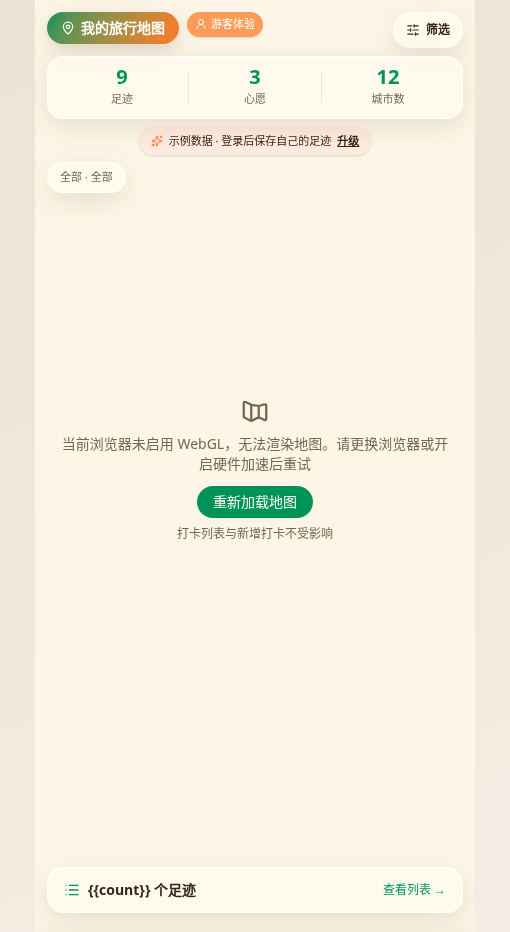
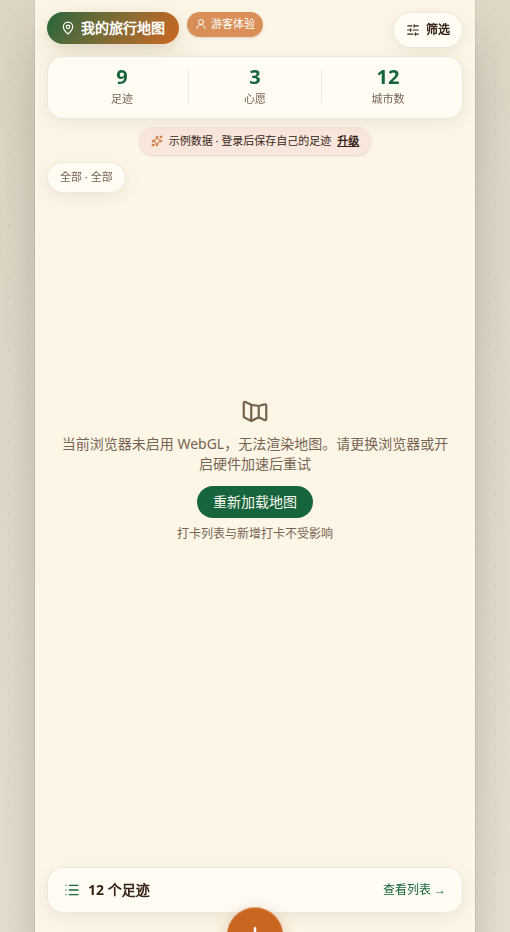
fix: repair donut chart, dedupe 4th stat, native confirm -> alert-dialog, fill i18n leaks

diff --git a/frontend/src/pages/CheckinDetail.tsx b/frontend/src/pages/CheckinDetail.tsx
@@ -1,3 +1,4 @@
+import { useState } from 'react'
 import { useNavigate, useParams } from 'react-router-dom'
 import { useAuth } from '@/lib/AuthContext'
 import { useCheckin, useDeleteCheckin } from '@/lib/hooks'
@@ -8,6 +9,17 @@ import { Button } from '@/components/ui/button'
 import { Badge } from '@/components/ui/badge'
 import { Card, CardContent } from '@/components/ui/card'
 import { Separator } from '@/components/ui/separator'
+import {
+  AlertDialog,
+  AlertDialogTrigger,
+  AlertDialogContent,
+  AlertDialogHeader,
+  AlertDialogFooter,
+  AlertDialogTitle,
+  AlertDialogDescription,
+  AlertDialogCancel,
+  AlertDialogAction,
+} from '@/components/ui/alert-dialog'
 import { Star, MapPin, Pencil, Trash2, Heart, CheckCircle2, Share2, CalendarDays } from 'lucide-react'
 import { toast } from 'sonner'
 import { useTranslation } from 'react-i18next'
@@ -19,6 +31,7 @@ export default function CheckinDetail() {
   const { user, guest } = useAuth()
   const { data: checkin, isLoading } = useCheckin(id ? Number(id) : null)
   const delMut = useDeleteCheckin()
+  const [delOpen, setDelOpen] = useState(false)
 
   if (isLoading) {
     return (
@@ -45,7 +58,6 @@ export default function CheckinDetail() {
   const isOwner = guest || (user?.uid && checkin.user_id === user.uid)
 
   const onDelete = async () => {
-    if (!confirm(t('确定删除这条打卡记录吗？'))) return
     try {
       await delMut.mutateAsync(checkin.id)
       toast.success(t('已删除'))
@@ -183,14 +195,32 @@ export default function CheckinDetail() {
             >
               <Pencil className="h-4 w-4" /> {t('编辑')}
             </Button>
-            <Button
-              variant="ghost"
-              className="h-11 flex-1 gap-1 rounded-full"
-              style={{ color: 'var(--destructive)' }}
-              onClick={onDelete}
-            >
-              <Trash2 className="h-4 w-4" /> {t('删除')}
-            </Button>
+            <AlertDialog open={delOpen} onOpenChange={setDelOpen}>
+              <AlertDialogTrigger asChild>
+                <Button
+                  variant="ghost"
+                  className="h-11 flex-1 gap-1 rounded-full"
+                  style={{ color: 'var(--destructive)' }}
+                >
+                  <Trash2 className="h-4 w-4" /> {t('删除')}
+                </Button>
+              </AlertDialogTrigger>
+              <AlertDialogContent className="card-paper" style={{ background: 'var(--card)', border: '1px solid var(--border)' }}>
+                <AlertDialogHeader>
+                  <AlertDialogTitle>{t('删除打卡')}</AlertDialogTitle>
+                  <AlertDialogDescription>{t('确定删除这条打卡记录吗？')}</AlertDialogDescription>
+                </AlertDialogHeader>
+                <AlertDialogFooter>
+                  <AlertDialogCancel>{t('取消')}</AlertDialogCancel>
+                  <AlertDialogAction
+                    onClick={onDelete}
+                    style={{ background: 'var(--destructive)', color: 'white' }}
+                  >
+                    {t('删除')}
+                  </AlertDialogAction>
+                </AlertDialogFooter>
+              </AlertDialogContent>
+            </AlertDialog>
           </div>
         )}
       </main>

diff --git a/frontend/src/pages/Stats.tsx b/frontend/src/pages/Stats.tsx
@@ -8,7 +8,7 @@ import TravelIllustration from '@/components/TravelIllustration'
 import CountUp from '@/components/CountUp'
 import { FadeIn } from '@/components/MotionPrimitives'
 import { useTranslation } from 'react-i18next'
-import { MapPin, Globe2, Sparkles, BarChart3, CalendarRange } from 'lucide-react'
+import { MapPin, Globe2, BarChart3, CalendarRange } from 'lucide-react'
 
 /** 两点间距离（km） */
 function haversineKm(a: { lng: number; lat: number }, b: { lng: number; lat: number }) {
@@ -33,8 +33,6 @@ function provinceOf(address?: string | null): string | null {
   for (const p of PROVINCES) if (address.startsWith(p)) return p
   return null
 }
-
-const ease = [0.25, 0.46, 0.45, 0.94] as const
 
 export default function Stats() {
   const { t } = useTranslation()
@@ -95,6 +93,9 @@ export default function Stats() {
     return { place: best.place_name, year: y, month: Number(m), km: Math.round(bestD) }
   }, [visited])
 
+  const fourthStat = furthest
+    ? { n: furthest.km, label: t('公里外的远方') }
+    : { n: byCategory.filter((c) => c.count > 0).length, label: t('类足迹') }
   const heroSentence = furthest
     ? t('这一年走得最远的一次，是 {{year}} 年 {{month}} 月的 {{place}}。', { year: furthest.year, month: furthest.month, place: furthest.place })
     : t('你已在 {{cities}} 座城市，留下 {{visited}} 段旅程。', { cities: s.cities, visited: s.visited })
@@ -160,7 +161,7 @@ export default function Stats() {
               { n: s.visited, label: t('段足迹') },
               { n: s.cities, label: t('座城市') },
               { n: litProvinces.size, label: t('个省份') },
-              { n: furthest ? furthest.km : s.visited, label: furthest ? t('公里远方') : t('段足迹') },
+              { ...fourthStat },
             ].map((stat, i) => (
               <div key={i} className="flex-1 text-center">
                 <div className="font-display text-4xl font-black leading-none tabular-nums" style={{ color: 'var(--primary)' }}>

diff --git a/docs/design/default.style-guide.html b/docs/design/default.style-guide.html
@@ -28,8 +28,8 @@
       --popover-foreground: oklch(0.28 0.035 60);
 
       /* === 主色调 === */
-      --primary: oklch(0.58 0.145 158);
-      --primary-foreground: oklch(0.99 0.008 90);
+      --primary: oklch(0.45 0.10 155);
+      --primary-foreground: oklch(0.98 0.01 90);
 
       /* === 次要色 === */
       --secondary: oklch(0.955 0.022 88);
@@ -40,7 +40,7 @@
       --muted-foreground: oklch(0.52 0.035 65);
 
       /* === 强调色 === */
-      --accent: oklch(0.72 0.185 48);
+      --accent: oklch(0.62 0.15 50);
       --accent-foreground: oklch(0.99 0.008 90);
 
       /* === 危险/错误色 === */
@@ -88,7 +88,7 @@
 
       /* === 其他变量 === */
       --font-family: "Inter Variable", -apple-system, BlinkMacSystemFont, "Segoe UI", "Helvetica Neue", Arial, sans-serif;
-      --font-display: "Playfair Display", "Songti SC", "STSong", "Noto Serif SC", Georgia, "Times New Roman", serif;
+      --font-display: "Noto Serif SC", "Songti SC", "STSong", "Playfair Display", Georgia, "Times New Roman", serif;
       --font-size-display: 3.5rem;
       --font-size-headline: 2rem;
       --font-size-title: 1.5rem;
@@ -124,12 +124,12 @@
       --ease-in: cubic-bezier(0.4, 0, 1, 1);
       --ease-out: cubic-bezier(0, 0, 0.2, 1);
       --ease-in-out: cubic-bezier(0.4, 0, 0.2, 1);
-      --scenery: oklch(0.68 0.16 155);
-      --food: oklch(0.76 0.17 52);
-      --culture: oklch(0.64 0.18 305);
-      --city: oklch(0.66 0.16 240);
-      --family: oklch(0.70 0.18 15);
-      --outdoor: oklch(0.68 0.15 200);
+      --scenery: oklch(0.60 0.08 155);
+      --food: oklch(0.68 0.10 60);
+      --culture: oklch(0.58 0.10 305);
+      --city: oklch(0.58 0.08 240);
+      --family: oklch(0.60 0.10 15);
+      --outdoor: oklch(0.60 0.08 200);
       --ease-bounce: cubic-bezier(0.34, 1.56, 0.64, 1);
 
     }

diff --git a/docs/design/index.css b/docs/design/index.css
@@ -61,7 +61,7 @@
 :root {
   --radius: 1rem;
   --font-family: "Inter Variable", -apple-system, BlinkMacSystemFont, "Segoe UI", "Helvetica Neue", Arial, sans-serif;
-  --font-display: "Playfair Display", "Songti SC", "STSong", "Noto Serif SC", Georgia, "Times New Roman", serif;
+  --font-display: "Noto Serif SC", "Songti SC", "STSong", "Playfair Display", Georgia, "Times New Roman", serif;
   --font-size-display: 3.5rem;
   --font-size-headline: 2rem;
   --font-size-title: 1.5rem;
@@ -103,13 +103,13 @@
   --card-foreground: oklch(0.28 0.035 60);
   --popover: oklch(0.995 0.008 90);
   --popover-foreground: oklch(0.28 0.035 60);
-  --primary: oklch(0.58 0.145 158);
-  --primary-foreground: oklch(0.99 0.008 90);
+  --primary: oklch(0.45 0.10 155);
+  --primary-foreground: oklch(0.98 0.01 90);
   --secondary: oklch(0.955 0.022 88);
   --secondary-foreground: oklch(0.28 0.035 60);
   --muted: oklch(0.945 0.02 88);
   --muted-foreground: oklch(0.52 0.035 65);
-  --accent: oklch(0.72 0.185 48);
+  --accent: oklch(0.62 0.15 50);
   --accent-foreground: oklch(0.99 0.008 90);
   --destructive: oklch(0.60 0.22 27);
   --border: oklch(0.915 0.022 85);
@@ -125,12 +125,12 @@
   --theme-green: oklch(0.62 0.16 158);
   --theme-gold: oklch(0.78 0.17 65);
   --theme-blue: oklch(0.62 0.17 245);
-  --scenery: oklch(0.68 0.16 155);
-  --food: oklch(0.76 0.17 52);
-  --culture: oklch(0.64 0.18 305);
-  --city: oklch(0.66 0.16 240);
-  --family: oklch(0.70 0.18 15);
-  --outdoor: oklch(0.68 0.15 200);
+  --scenery: oklch(0.60 0.08 155);
+  --food: oklch(0.68 0.10 60);
+  --culture: oklch(0.58 0.10 305);
+  --city: oklch(0.58 0.08 240);
+  --family: oklch(0.60 0.10 15);
+  --outdoor: oklch(0.60 0.08 200);
   --chart-1: var(--scenery);
   --chart-2: var(--food);
   --chart-3: var(--culture);

diff --git a/frontend/src/pages/Index.tsx b/frontend/src/pages/Index.tsx
@@ -8,7 +8,7 @@ import CheckinCard from '@/components/CheckinCard'
 import EmptyState from '@/components/EmptyState'
 import TravelIllustration from '@/components/TravelIllustration'
 import BottomSheet from '@/components/BottomSheet'
-import { MapPin, Plus, UserRound, List, SlidersHorizontal, X } from 'lucide-react'
+import { Plus, UserRound, List, SlidersHorizontal, X } from 'lucide-react'
 import { Button } from '@/components/ui/button'
 import { useTranslation } from 'react-i18next'
 
@@ -126,7 +126,7 @@ export default function Index() {
 
         <BottomSheet open={listOpen} onClose={() => setListOpen(false)} title="我的足迹">
           {isLoading ? (
-            <p className="py-10 text-center text-sm" style={{ color: 'var(--muted-foreground)' }}>加载中…</p>
+            <p className="py-10 text-center text-sm" style={{ color: 'var(--muted-foreground)' }}>{t('加载中…')}</p>
           ) : filtered.length === 0 ? (
             <EmptyState
               illustration={<TravelIllustration scene="empty" className="h-24 w-24" />}

diff --git a/frontend/src/pages/Me.tsx b/frontend/src/pages/Me.tsx
@@ -271,7 +271,7 @@ export default function Me() {
             <SettingRow
               icon={Languages}
               title={t('语言')}
-              desc={lang === 'zh' ? 'Switch to English' : '切换到中文'}
+              desc={lang === 'zh' ? 'Switch to English' : t('切换到中文')}
               onClick={() => setLanguage(lang === 'zh' ? 'en' : 'zh')}
             />
             {!guest && (

diff --git a/frontend/src/components/TravelMap.tsx b/frontend/src/components/TravelMap.tsx
@@ -2,7 +2,6 @@ import { useCallback, useEffect, useRef, useState } from 'react'
 import { useNavigate } from 'react-router-dom'
 import { loadTMapGL, createMap, LBSError } from '@/lib/tencent-lbs'
 import type { Checkin } from '@/lib/types'
-import { categoryMeta } from '@/lib/categories'
 import { useTranslation } from 'react-i18next'
 
 /** 生成带分类配色的地图大头针（SVG data URI） */

diff --git a/frontend/src/lib/locales/en.ts b/frontend/src/lib/locales/en.ts
@@ -277,6 +277,11 @@ const en = {
   '正在登录…': 'Signing in…',
   '登录成功后将自动跳转': 'You will be redirected after signing in',
   '登录失败，请重试': 'Sign-in failed, please retry',
+
+  // ===== misc / leaks =====
+  '切换到中文': 'Switch to Chinese',
+  '类足迹': 'Categories',
+  '删除打卡': 'Delete check-in',
 }
 
 export default en

diff --git a/frontend/src/pages/SharePage.tsx b/frontend/src/pages/SharePage.tsx
@@ -47,7 +47,7 @@ export default function SharePage() {
 
         {isLoading ? (
           <p className="py-16 text-center text-sm" style={{ color: 'var(--muted-foreground)' }}>
-            加载中…
+            {t('加载中…')}
           </p>
         ) : checkins.length === 0 ? (
           <EmptyState

diff --git a/frontend/src/pages/Timeline.tsx b/frontend/src/pages/Timeline.tsx
@@ -117,6 +117,7 @@ function TimelineItem({ item, index }: { item: Checkin; index: number }) {
 }
 
 export default function Timeline() {
+  const navigate = useNavigate()
   const { t } = useTranslation()
   const { user, guest, loading, enterGuest } = useAuth()
   const { data: checkins = [] } = useMyCheckins()
